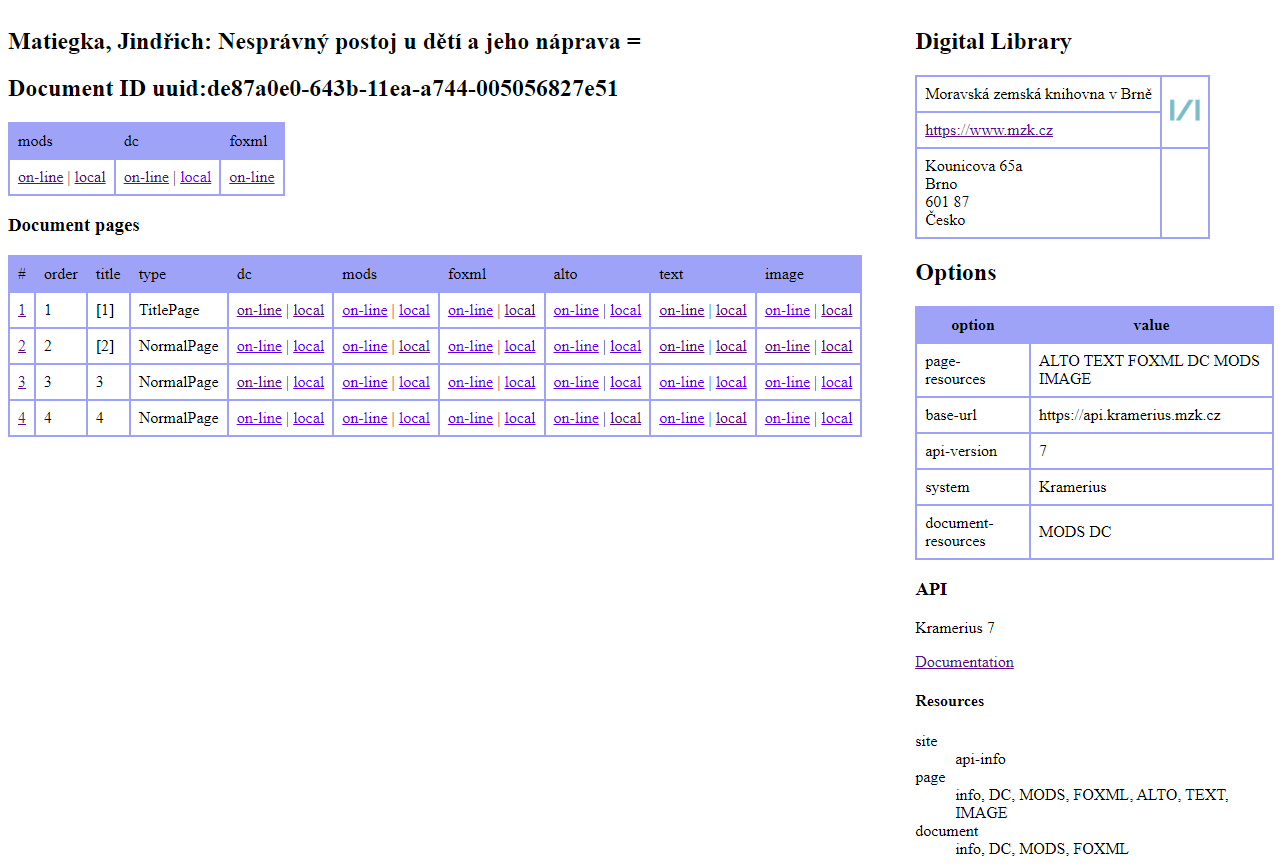
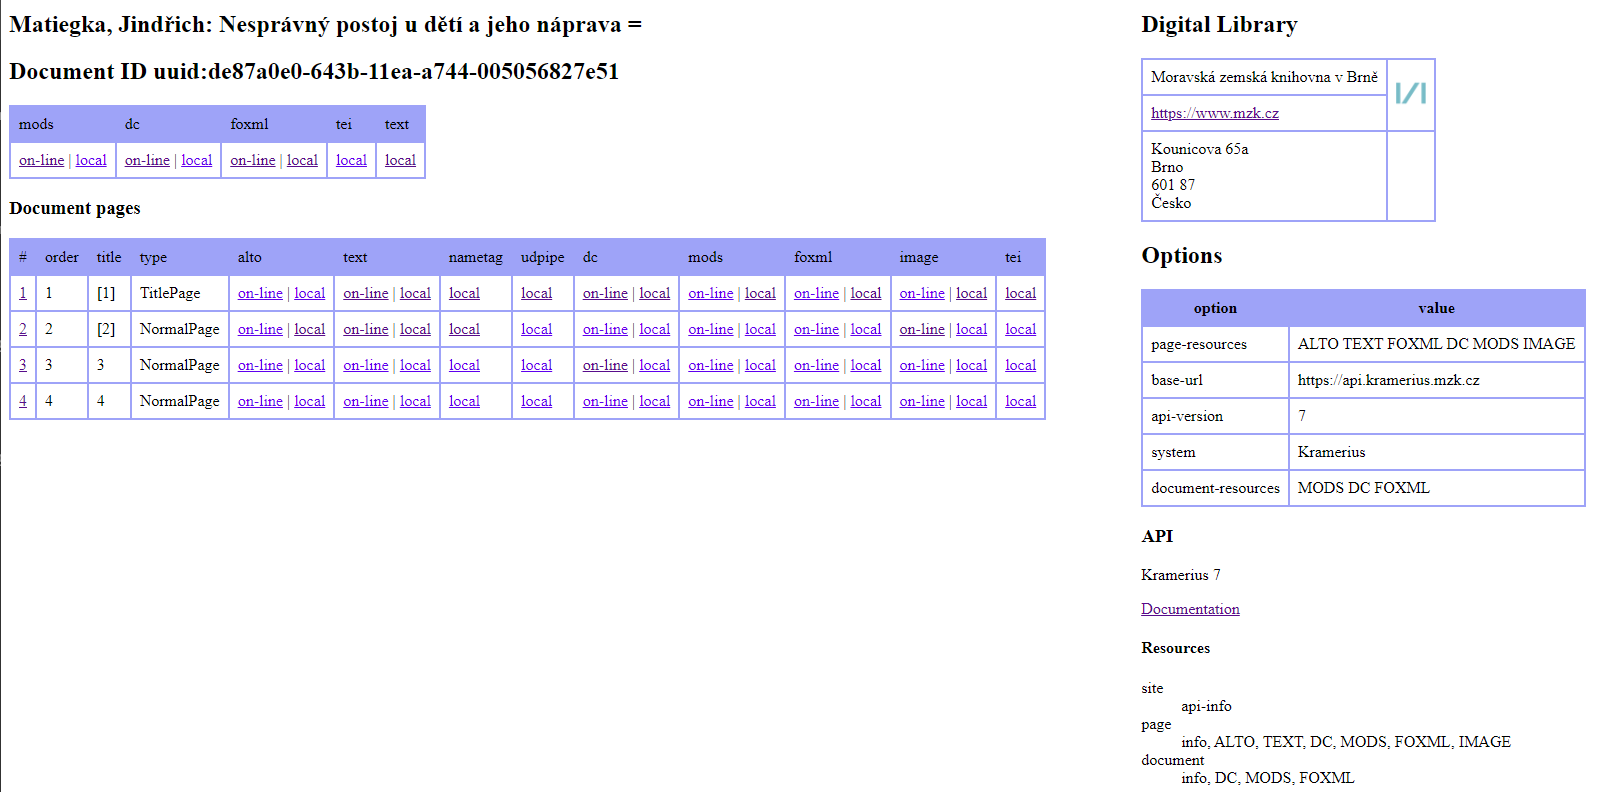
updating README with new features

Changed region(s): [[0.0, 0.2424, 0.687, 0.5455], [0.7182, 0.0, 0.9992, 1.0], [0.0, 0.0, 0.4996, 0.2424]]

diff --git a/README.md b/README.md
@@ -4,6 +4,12 @@ XProc 3.0 Libraries for Digital Books Download and Enrichment
 
 This software downloads all available (or selected) data and metadata, like [MODS](https://www.loc.gov/standards/mods/), [FOXML](https://wiki.lyrasis.org/display/FEDORA/All+Documentation), [DC](https://www.dublincore.org/specifications/dublin-core/), [ALTO](https://www.loc.gov/standards/alto/), and images, from digital libraries based on the system [Kramerius](https://system-kramerius.cz) and stores it on the local system.
 
+This software also uses services provided by the [LINDAT/CLARIAH-CZ](https://lindat.cz "LINDAT/CLARIAH-CZ URL") Research Infrastructure (<https://lindat.cz> "LINDAT/CLARIAH-CZ Research Infrastructure"), supported by the Ministry of Education, Youth and Sports of the Czech Republic (Project No. [LM2023062](https://www.isvavai.cz/cep?ss=detail&n=0&h=LM2023062 "LM2023062 project details")).
+
+`Librari augmentati` enriches textual data by morphosyntactic annotation using [UDPipe service](https://lindat.mff.cuni.cz/services/udpipe/ "UDPipe service") and named entity recognition by [NameTag service](https://lindat.mff.cuni.cz/services/nametag/ "NameTag service") developed and operated by the mentioned large research infrastructure.
+
+Enriched textual data can be converted to [TEI P5](https://tei-c.org/release/doc/tei-p5-doc/en/html/index.html "TEI P5 Guidlines") format, both at the page level and the whole document level.
+
 At this time, `Librari augmentati` only supports digital libraries provided by [Moravian Library in Brno](https://www.digitalniknihovna.cz/mzk "Digital library by Moravian Library in Brno") (Kramerius [version 7](https://github.com/ceskaexpedice/kramerius/wiki/Kramerius-REST-API-verze-7.0 "Wiki for Kramerius 7 Client API")) and [National Library](https://www.ndk.cz/ "Digital library by National Library") (Kramerius [version 5](https://github.com/ceskaexpedice/kramerius/wiki/ClientAPIDEV "Wiki for Kramerius 5 Client API")). Further libraries can be added to the [libraries.xml](src/settings/libraries.xml) settings file. See [registry](https://registr.digitalniknihovna.cz "Registry of the Kramerius systems") of all running instances of the Kramerius system.
 
 ## Prerequisites
@@ -12,7 +18,7 @@ At this time, `Librari augmentati` only supports digital libraries provided by [
 - [Saxon-HE 12.3](https://github.com/Saxonica/Saxon-HE/releases/tag/SaxonHE12-3 "Download SaxonHE12-3J")
 - [MorganaXProc-IIIse 1.4.5](https://sourceforge.net/projects/morganaxproc-iiise/files/MorganaXProc-IIIse-1.4.5/ "Donwload MorganaXProc-IIIse 1.4.5")
 
-### TODO list
+### Enviroment setting
 
 - [ ] Install Java JDK 11
 - [ ] Extract content of the [MorganaXProc-IIIse-1.4.5.zip](https://sourceforge.net/projects/morganaxproc-iiise/files/MorganaXProc-IIIse-1.4.5/MorganaXProc-IIIse-1.4.5.zip/download "Donwload MorganaXProc-IIIse 1.4.5.zip file")
@@ -27,7 +33,7 @@ At this time, `Librari augmentati` only supports digital libraries provided by [
 
 Clone the repository using Git
 
-```
+```shell
 git clone https://github.com/moravianlibrary/libri-augmentati.git
 ```
 
@@ -37,13 +43,13 @@ Go to the [run](run) folder of this project and run one of the following command
 
 - [sample-book.cmd](run/sample-book.cmd) uses [sample-book.xpl](src/tests/xproc/sample-book.xpl) pipeline for downloading and processing [digital book](https://www.digitalniknihovna.cz/mzk/view/uuid:de87a0e0-643b-11ea-a744-005056827e51) from Moravian Library in Brno.
 - in the [client.cmd](run/client.cmd) file you can set parameters of the book to be processed; this batch file uses [client.xpl](src/tests/xproc/client.xpl) pipeline
-- in the [client-mzk.cmd](run/client-mzk.cmd) file change `-option:document-id` and `-option:nickname` argument and download (meta)data from Moravian Library in Brno
-- in the [client-nkp.cmd](run/client-nkp.cmd) file change `-option:document-id` and `-option:nickname` argument and download (meta)data from National Library
-- [test-samples.cmd](run/test-samples.cmd) uses [test-samples.xpl](src/tests/xproc/test-samples.xpl) pipeline for downloading and processing all used as a sample in the [libraries.xml](src/settings/libraries.xml) settings file
+- in the [client-mzk.cmd](run/client-mzk.cmd) file change `-option:document-id` and `-option:nickname` argument and download (meta)data from Moravian Library in Brno, enrich them and convert to TEI
+- in the [client-nkp.cmd](run/client-nkp.cmd) file change `-option:document-id` and `-option:nickname` argument and download (meta)data from National Library, enrich them and convert to TEI
+- [test-samples.cmd](run/test-samples.cmd) uses [test-samples.xpl](src/tests/xproc/test-samples.xpl) pipeline for downloading and processing all books used as a sample in the [libraries.xml](src/settings/libraries.xml) settings file
 
 After the data processing, a report (`report.html`) is generated in the selected folder from which you can access all the data locally or online in the original digital library.
 
-<img src="doc/images/sample-book-report.png" title="Sample book report" width="641" height="434">
+<img src="doc/images/sample-book-report.png" title="Sample book report" width="640" height="317">
 
 When viewing a [title](https://www.digitalniknihovna.cz/mzk/view/uuid:de87a0e0-643b-11ea-a744-005056827e51?page=uuid:73648039-1b21-4921-9b08-13161ae6d239 "First page of the sample book") in a digital library, you can find the `document-id` of the publication in the URL. For example, the sample book is accessible via <https://www.digitalniknihovna.cz/mzk/view/uuid:de87a0e0-643b-11ea-a744-005056827e51?page=uuid:73648039-1b21-4921-9b08-13161ae6d239>. For the `document-id` use the first unique identifier, UUID, after `/view/`, in this case `uuid:de87a0e0-643b-11ea-a744-005056827e51`.
 
